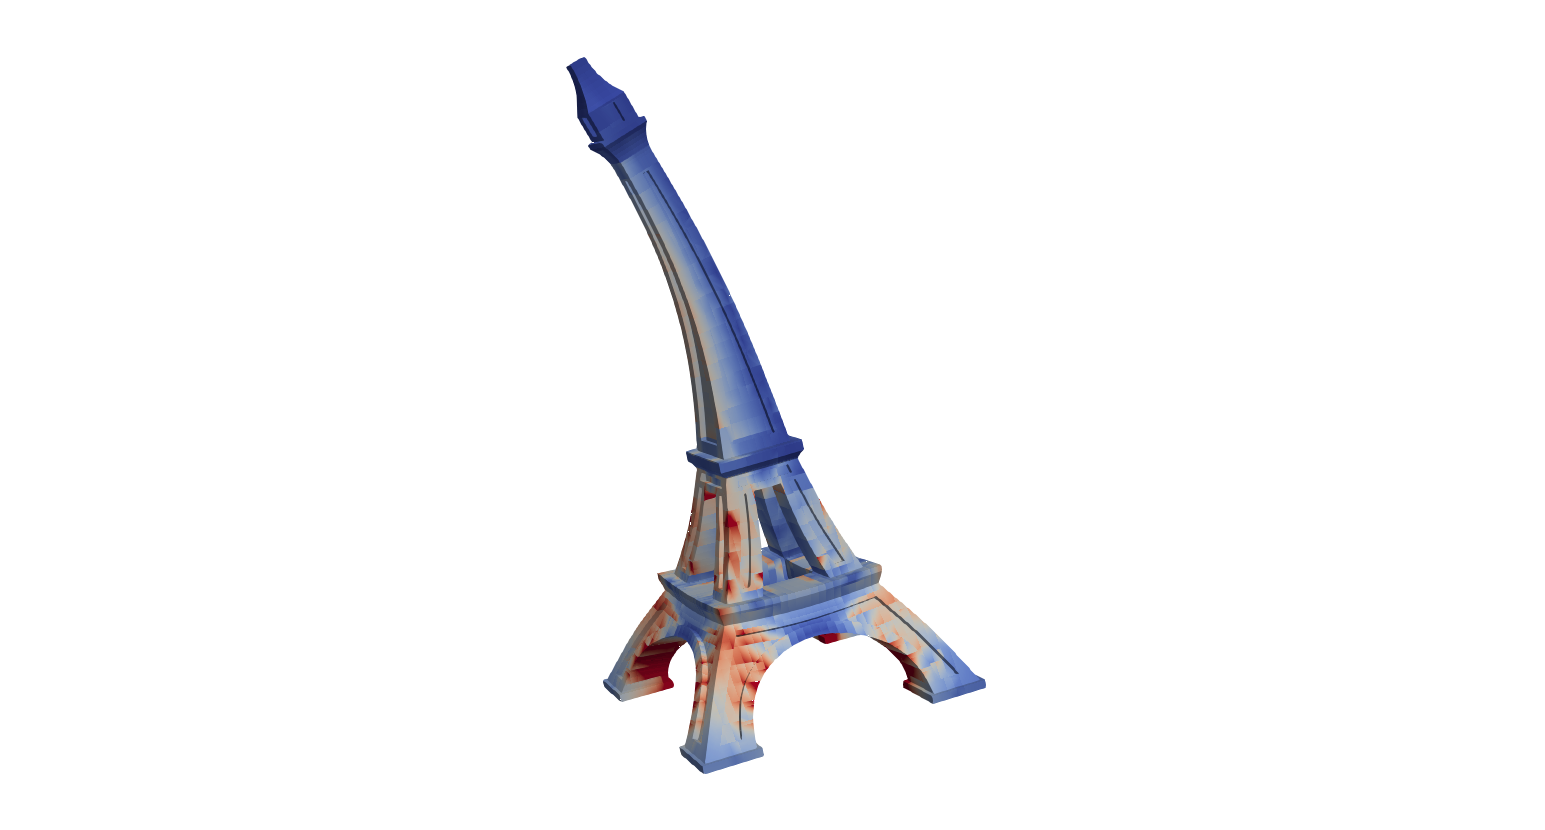
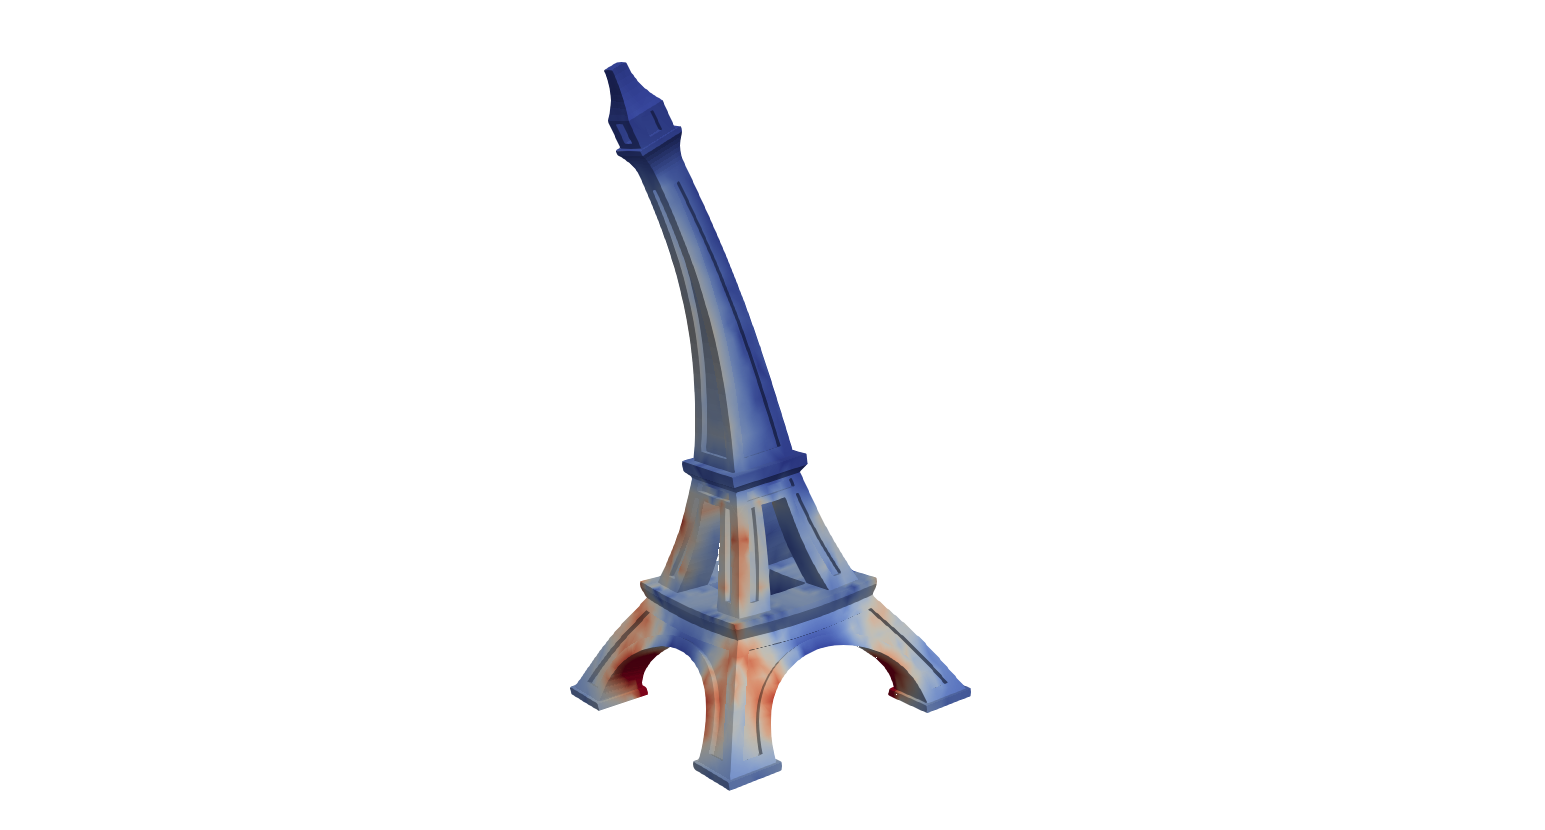
Changes in Stokes example and L2 projection in pressure and stress fields

Changed region(s): [[0.3728, 0.0602, 0.6524, 0.9639]]

diff --git a/README.md b/README.md
@@ -53,4 +53,13 @@ julia> filename = "test/data/550964.stl"
 julia> Poisson.main(filename,n=50,force=(tand(5),0,-1),output="example4")
 ```
 
-![Example 3](examples/example4.png)
+![Example 4](examples/example4.png)
+
+Solve an **Incompressible Flow** problem on a test geometry, e.g., `47076.stl` (Chichen Itza)
+ ```julia
+julia> include("examples/Stokes.jl")
+julia> filename = "test/data/47076.stl"
+julia> Poisson.main(filename,n=10,output="example5")
+```
+
+![Example 5](examples/example5.png)
